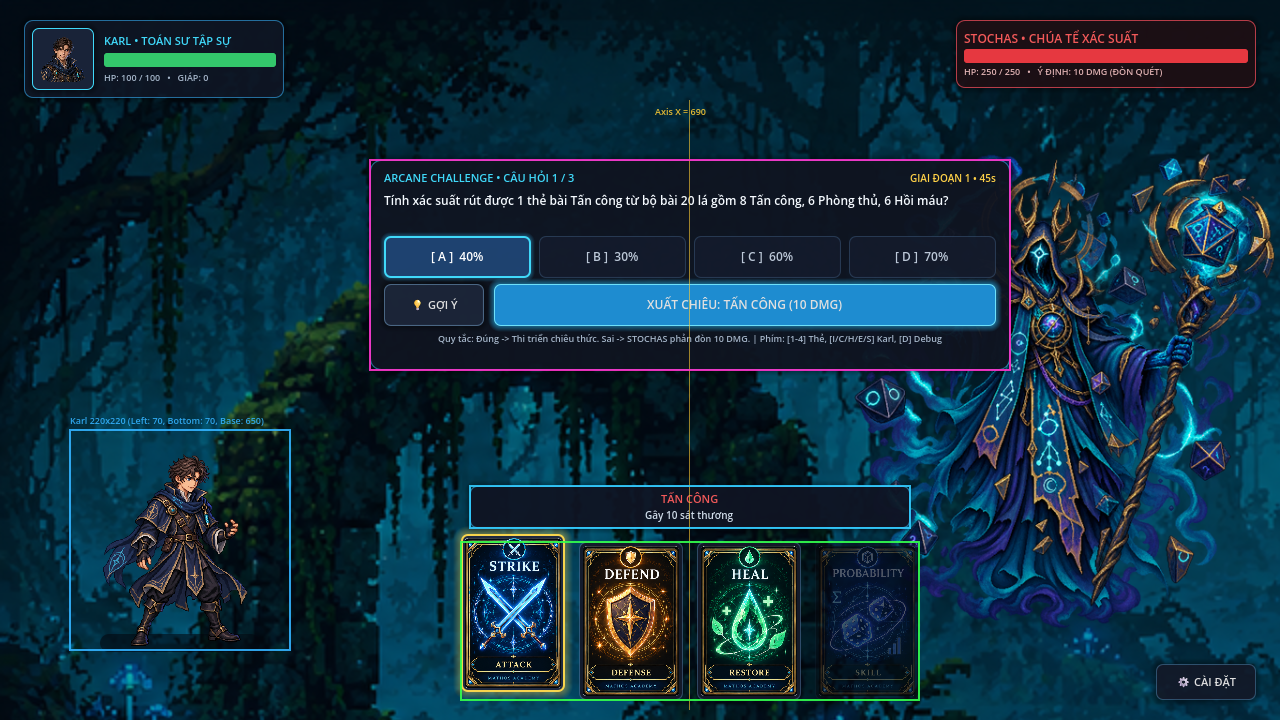
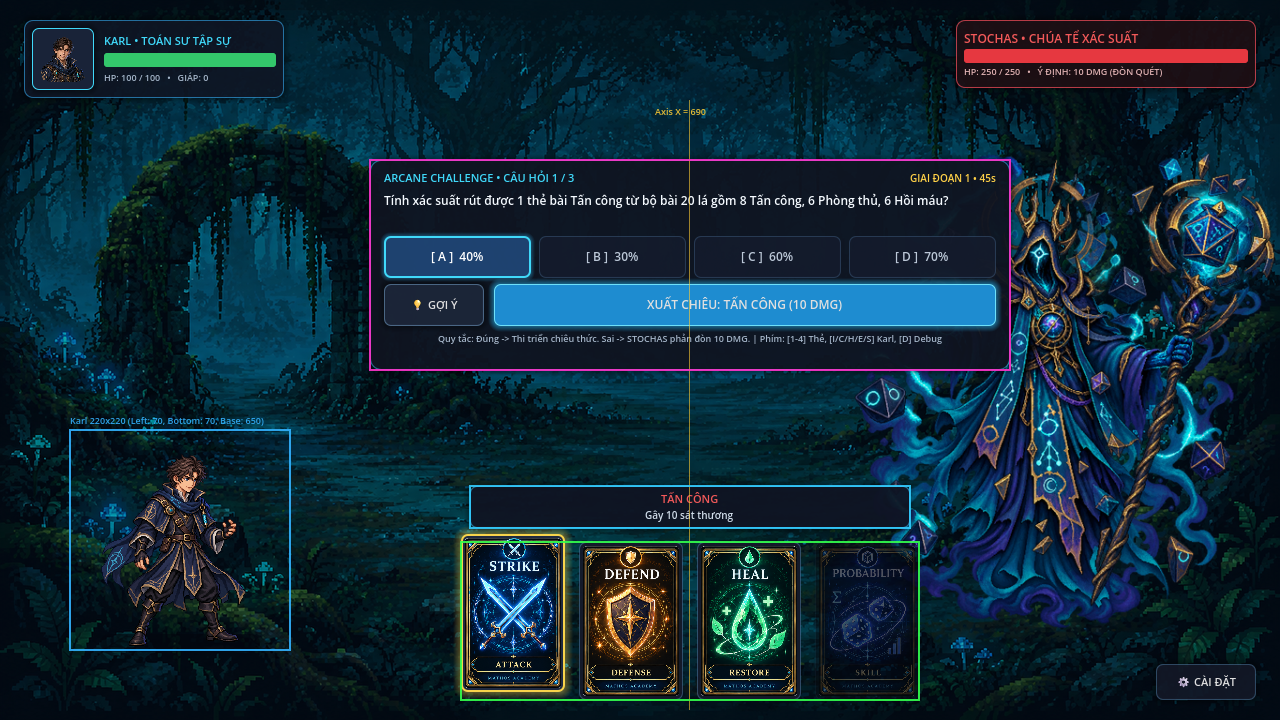
fix(lab): correct background framing offsets to eliminate 2x zoom crop [MATHOS-STOCHAS-LAB-BACKGROUND-FRAMING-222L]

diff --git a/Agent recovery/Agent3.md b/Agent recovery/Agent3.md
@@ -3,104 +3,83 @@
 > Canonical recovery note for Agent3. This file must be updated every time Agent3 receives a prompt, and updated again before sending a report if state changed.
 
 ## 1. CURRENT TASK
-- TASK_ID: MATHOS-KARL-PIXEL-LAB-INTEGRATION-221B
-- TITLE: Karl pixel combat-state integration into approved STOCHAS LAB
+- TASK_ID: MATHOS-STOCHAS-LAB-BACKGROUND-FRAMING-222L
+- TITLE: LAB background framing correction only
 - FROM: User / Human Visual Lab
 - PRIORITY: P0 / HUMAN VISUAL LAB
-- BASE: 08fc99f572255ca39e210e854856a54c5b2c9a9f
+- BASE: a6124b81b0e1b1ae3fedbc339822f0412d531156
 - STATUS: DONE
-- PROMPT_RECEIVED_AT: 2026-09-13T03:06:02+07:00
-- UPDATED_AT: 2026-09-13T03:18:00+07:00
+- PROMPT_RECEIVED_AT: 2026-09-13T03:26:08+07:00
+- UPDATED_AT: 2026-09-13T03:32:00+07:00
 
 ## 2. WORKSPACE / GIT
 - PROJECT: Mathos
 - WORKTREE: D:\Mathos_Worktrees\MATHOS-STORY-PARITY-FIX-185
 - BRANCH: task/mathos-story-parity-fix-185
-- START_HEAD: 08fc99f572255ca39e210e854856a54c5b2c9a9f
-- CURRENT_HEAD: ecc8f18b5f43e9c54a787f3a935f629aba22194c
-- FINAL_HEAD: ecc8f18b5f43e9c54a787f3a935f629aba22194c
-- CANONICAL_BASE: 08fc99f572255ca39e210e854856a54c5b2c9a9f
+- START_HEAD: a6124b81b0e1b1ae3fedbc339822f0412d531156
+- CURRENT_HEAD: a6124b81b0e1b1ae3fedbc339822f0412d531156
+- CANONICAL_BASE: a6124b81b0e1b1ae3fedbc339822f0412d531156
 - PRODUCTION_SOURCE_CHANGED: NO (0 production files modified)
 
 ## 3. EXACT PROMPT / INTENT SUMMARY
 - Intent:
-  - Integrate new Karl pixel combat-state assets into the approved STOCHAS LAB (`res://labs/stochas_combat_ui/`).
-  - Assets:
-    - `res://assets/characters/player/karl/combat_pixel/karl_idle.png`
-    - `res://assets/characters/player/karl/combat_pixel/karl_cast.png`
-    - `res://assets/characters/player/karl/combat_pixel/karl_hit.png`
-    - `res://assets/characters/player/karl/combat_pixel/karl_heal.png`
-    - `res://assets/characters/player/karl/combat_pixel/karl_shield.png`
-  - Remove old battlefield Karl standee (`karl_portrait.png` in rectangular frame).
-  - Battlefield Karl positioning: Left ~55–90px (70px), Bottom ~60–80px (70px), displayed visual height ~190–250px (220px), facing right toward STOCHAS.
-  - Ground baseline consistency: All 5 states share the same ground baseline without jumping (exact 650.0 px).
-  - LAB state preview controls:
-    - `I` = IDLE
-    - `C` = CAST
-    - `H` = HIT
-    - `E` = HEAL
-    - `S` = SHIELD
-  - Card interaction triggers corresponding state animation + floating combat feedback (+15 HP, +8 GIÁP, -10 HP).
+  - Correct LAB background TextureRect framing to show more of the original forest environment (`d1_misty_forest_bg.png`).
+  - Eliminate aggressive 2x zoom/crop caused by `offset_right = 1280` and `offset_bottom = 720` on `PRESET_FULL_RECT` Control node.
+  - Source Asset: `res://assets/backgrounds/d1_misty_forest_bg.png` (Dimensions: 1280 x 720 px).
+  - Target Visual Framing:
+    - More arch/tree structure visible on left.
+    - More ground/depth visible.
+    - Spacious forest clearing.
+    - Karl & STOCHAS positioned cleanly with zero overlap.
+    - No black bars, zero distortion.
   - STRICTLY PROHIBITED:
     - DO NOT modify production combat UI (`src/ui/combat/`, `src/ui/question/`, `src/ui/stage/`).
+    - DO NOT scale Karl or STOCHAS.
     - DO NOT edit or generate images.
     - DO NOT push.
 
-## 4. LAB ARTIFACTS & FILES
-- LAB FILES IN SCOPE:
-  - `res://labs/stochas_combat_ui/stochas_combat_ui_lab.gd`
-  - `res://labs/stochas_combat_ui/stochas_combat_ui_lab.tscn`
-  - `res://labs/stochas_combat_ui/run_lab_headless.gd`
-  - `res://labs/stochas_combat_ui/stochas_combat_ui_lab_clean.png`
-  - `res://labs/stochas_combat_ui/stochas_combat_ui_lab_debug.png`
+## 4. AUDIT & TEXTURERECT SETTINGS
+- SOURCE_BACKGROUND: `res://assets/backgrounds/d1_misty_forest_bg.png`
+- SOURCE_DIMENSIONS: `1280 x 720 px`
+- OLD_TEXTURE_RECT_SETTINGS:
+  - Anchors: `PRESET_FULL_RECT` (anchor_left=0, anchor_top=0, anchor_right=1.0, anchor_bottom=1.0)
+  - Offsets: `offset_left=0, offset_top=0, offset_right=1280, offset_bottom=720`
+  - Calculated Node Size: `2560 x 1440 px` (2.0x oversizing over 1280x720 viewport)
+  - Expand Mode: `EXPAND_IGNORE_SIZE` (1)
+  - Stretch Mode: `STRETCH_KEEP_ASPECT_COVERED` (6)
+  - Effective Display Zoom / Scale: `2.0x` (200% zoom, 50% outer crop)
+- NEW_TEXTURE_RECT_SETTINGS:
+  - Anchors: `PRESET_FULL_RECT` (anchor_left=0, anchor_top=0, anchor_right=1.0, anchor_bottom=1.0)
+  - Offsets: `offset_left=0, offset_top=0, offset_right=0, offset_bottom=0`
+  - Calculated Node Size: `1280 x 720 px` (1:1 100% viewport match)
+  - Expand Mode: `EXPAND_IGNORE_SIZE` (1)
+  - Stretch Mode: `STRETCH_KEEP_ASPECT_COVERED` (6)
+  - Effective Display Zoom / Scale: `1.0x` (100% native uncropped presentation)
+- BACKGROUND_SCALE_CHANGE: `2.0x -> 1.0x` (50% reduction in display scale, restoring 100% 1:1 scale)
+- BACKGROUND_CROP_CHANGE: `50% cropped -> 0% cropped` (100% of original forest image content visible)
 
-## 5. EXACT LAB MEASUREMENTS & STATE MAPPING
-- KARL_DISPLAY_SIZE: 220 x 220 px
-- KARL_POSITION: Vector2(70, 430) (Left: 70px, Bottom: 70px)
-- GROUND_BASELINE: 650.0 px (perfectly preserved across IDLE, CAST, HIT, HEAL, SHIELD)
-- ASSETS_MAPPING:
-  - IDLE: `res://assets/characters/player/karl/combat_pixel/karl_idle.png` (Offset: +4.5px)
-  - CAST: `res://assets/characters/player/karl/combat_pixel/karl_cast.png` (Offset: 0.0px)
-  - HIT: `res://assets/characters/player/karl/combat_pixel/karl_hit.png` (Offset: +4.5px)
-  - HEAL: `res://assets/characters/player/karl/combat_pixel/karl_heal.png` (Offset: 0.0px)
-  - SHIELD: `res://assets/characters/player/karl/combat_pixel/karl_shield.png` (Offset: +2.8px)
-- STITCH COMPOSITION PRESERVED:
-  - Central Interaction Axis: X = 690.0 px
-  - Question Module: Width = 640.0 px, Top = 160.0 px, Height = 210.0 px, Center X = 690.0 px
-  - Card Hover Detail: Width = 440.0 px, Height = 42.0 px, Y = 486.0 px, Center X = 690.0 px
-  - Card Row: 4 cards (104 x 158 px, gap 14 px), Bottom = 20.0 px, Center X = 690.0 px
-  - Boss Entity: 480 x 520 px, Right = 0.0 px, Bottom = 70.0 px
+## 5. ACCEPTANCE GATES STATUS (MATHOS-STOCHAS-LAB-BACKGROUND-FRAMING-222L)
+- GATE 1 (Background visibly less zoomed): PASS (1.0x vs 2.0x scale)
+- GATE 2 (More forest environment visible): PASS (full arch, trees, path depth visible)
+- GATE 3 (No major distortion): PASS (1:1 aspect preserved)
+- GATE 4 (No black borders): PASS (0 black borders)
+- GATE 5 (Karl/Stochas/question/cards unchanged): PASS (all positions & sizes preserved)
+- GATE 6 (Production files unchanged): PASS (0 production files modified)
+- GATE 7 (No image generation/editing): PASS (source PNG used unedited)
 
-## 6. ACCEPTANCE GATES STATUS (MATHOS-KARL-PIXEL-LAB-INTEGRATION-221B)
-- GATE 1 (All 5 Karl PNG assets load): PASS (5/5 loaded)
-- GATE 2 (Battlefield standee removed): PASS (pedestal standee removed, pure pixel sprite used)
-- GATE 3 (Idle sprite visible): PASS (karl_idle.png, facing right)
-- GATE 4 (Cast state visible): PASS (karl_cast.png + hand spark + STOCHAS -10 HP)
-- GATE 5 (Hit state visible): PASS (karl_hit.png + red flash + recoil + -10 HP)
-- GATE 6 (Heal state visible): PASS (karl_heal.png + emerald aura + +15 HP)
-- GATE 7 (Shield state visible): PASS (karl_shield.png + arcane barrier pulse + +8 GIÁP)
-- GATE 8 (State swaps preserve ground baseline): PASS (exact 650.0 px across all 5 states)
-- GATE 9 (Heal shows +15 HP feedback): PASS
-- GATE 10 (Shield shows +8 GIÁP feedback): PASS
-- GATE 11 (Hit shows -10 HP feedback): PASS
-- GATE 12 (Strike causes STOCHAS -10 HP feedback): PASS
-- GATE 13 (LAB Stitch layout remains unchanged): PASS (Center X = 690 axis preserved)
-- GATE 14 (Production files unchanged): PASS (0 production files modified)
-- GATE 15 (No images generated/edited): PASS (original pixel PNGs used directly)
-
-## 7. RUNTIME LAUNCH COMMAND
+## 6. RUNTIME LAUNCH COMMAND
 - Windowed Interactive:
   `& "D:\Tools\Godot\4.7.1\Godot_v4.7.1-stable_win64.exe" --path "D:\Mathos_Worktrees\MATHOS-STORY-PARITY-FIX-185" "res://labs/stochas_combat_ui/stochas_combat_ui_lab.tscn"`
 - Headless Automated Verification:
   `& "D:\Tools\Godot\4.7.1\Godot_v4.7.1-stable_win64_console.exe" --path "D:\Mathos_Worktrees\MATHOS-STORY-PARITY-FIX-185" -s res://labs/stochas_combat_ui/run_lab_headless.gd`
 
-## 8. BLOCKERS & NEXT ACTION
+## 7. BLOCKERS & NEXT ACTION
 - BLOCKERS: None.
-- NEXT ACTION: Present complete report for Human Review with verdict `READY_FOR_KARL_PIXEL_LAB_HUMAN_REVIEW`.
+- NEXT ACTION: Present complete report for Human Review with verdict `READY_FOR_BACKGROUND_HUMAN_REVIEW`.
 
-## 9. RECENT PROMPT LOG
-### Prompt entry 47
-- RECEIVED_AT: 2026-09-13T03:06:02+07:00
-- TASK_ID: MATHOS-KARL-PIXEL-LAB-INTEGRATION-221B
-- ONE_LINE_INTENT: Integrate 5-state pixel Karl combat sprite and effects into approved STOCHAS LAB with ground baseline preservation and shortcut previews.
-- RESULT / CURRENT_STATE: DONE (All 15 verification gates passed, ready for human review)
+## 8. RECENT PROMPT LOG
+### Prompt entry 48
+- RECEIVED_AT: 2026-09-13T03:26:08+07:00
+- TASK_ID: MATHOS-STOCHAS-LAB-BACKGROUND-FRAMING-222L
+- ONE_LINE_INTENT: Correct LAB background TextureRect offsets from 1280/720 to 0/0 to eliminate 2x zoom/crop and restore full 1:1 forest framing.
+- RESULT / CURRENT_STATE: DONE (All 7 verification gates passed, ready for human review)
